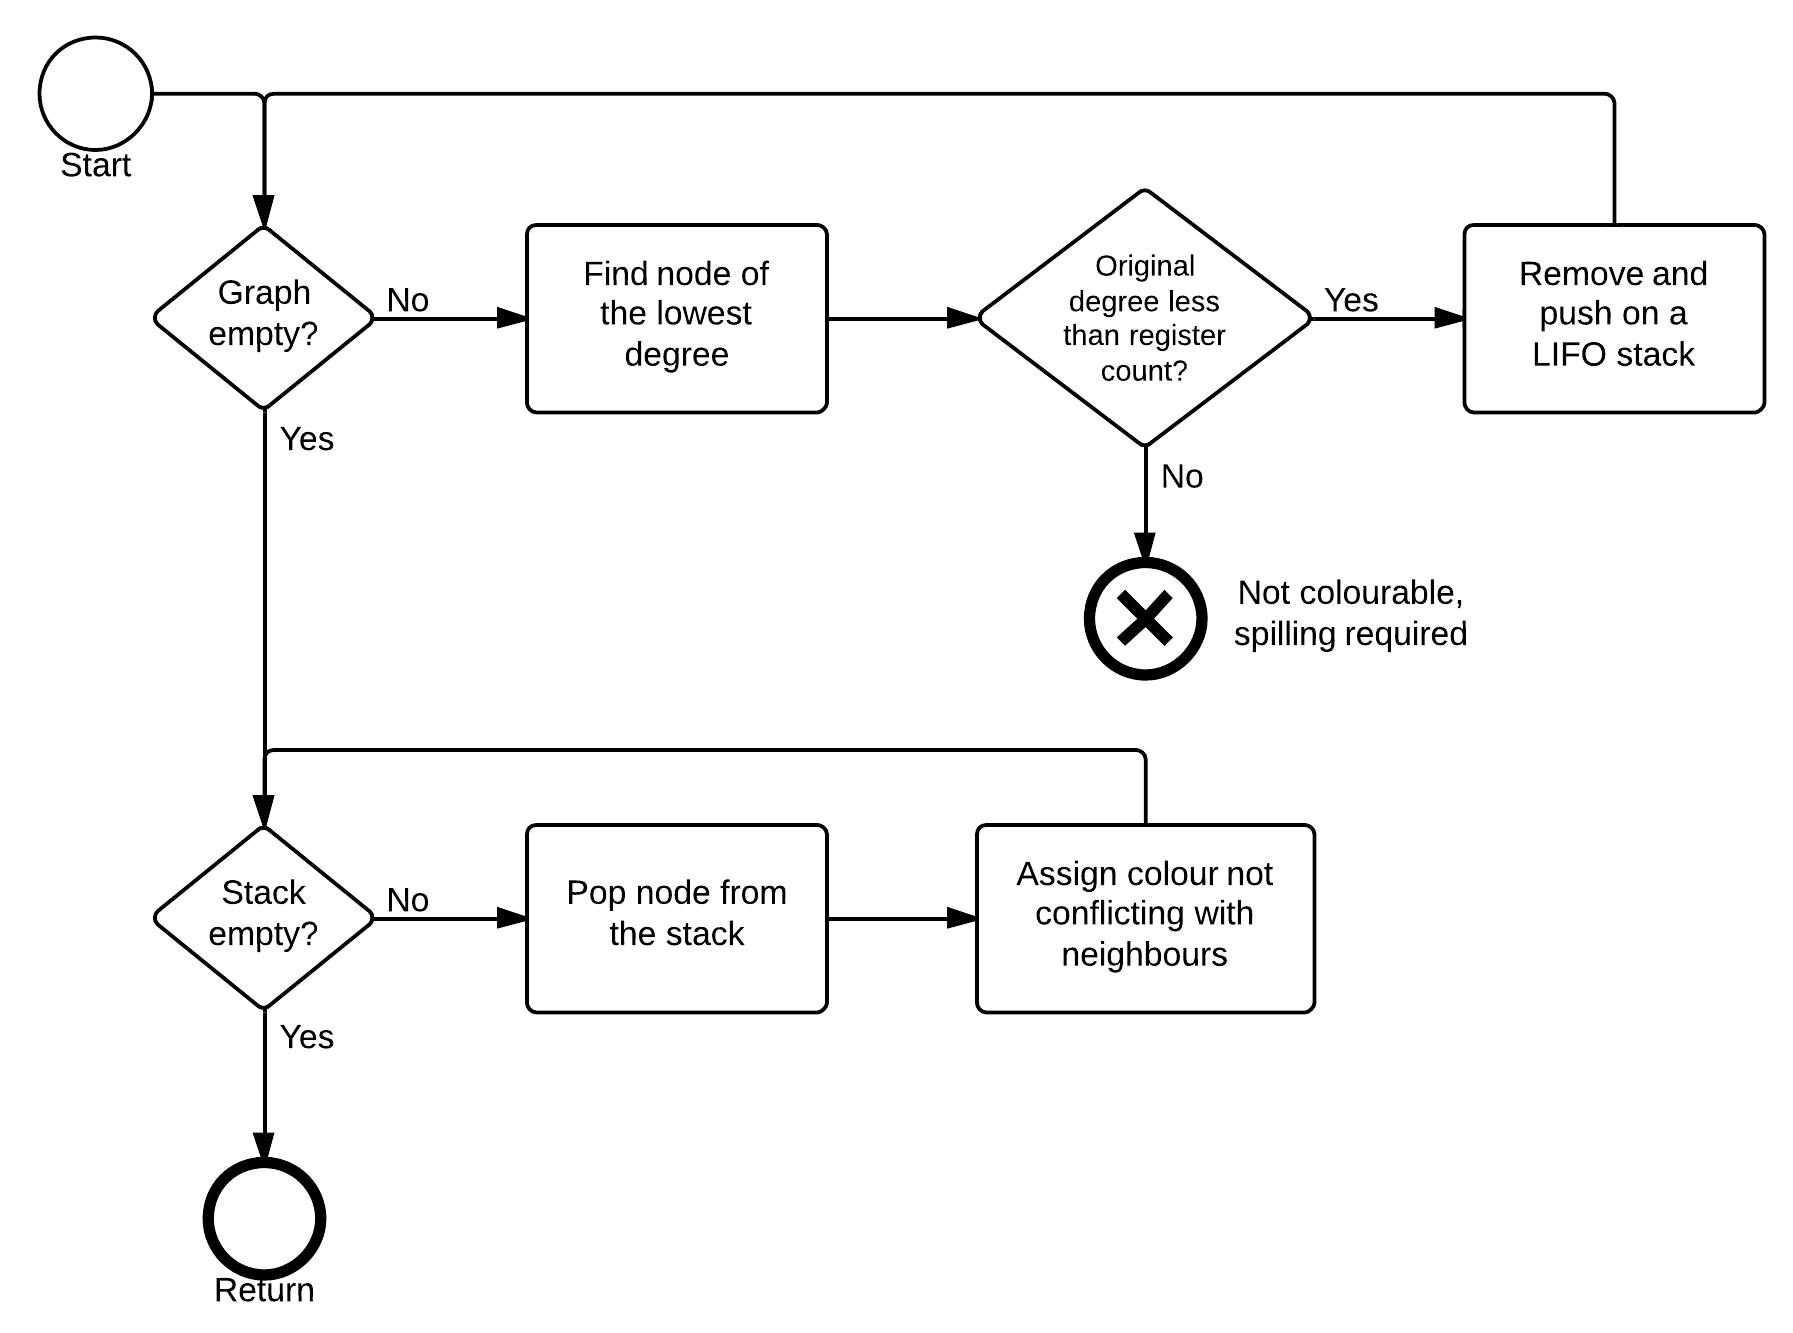
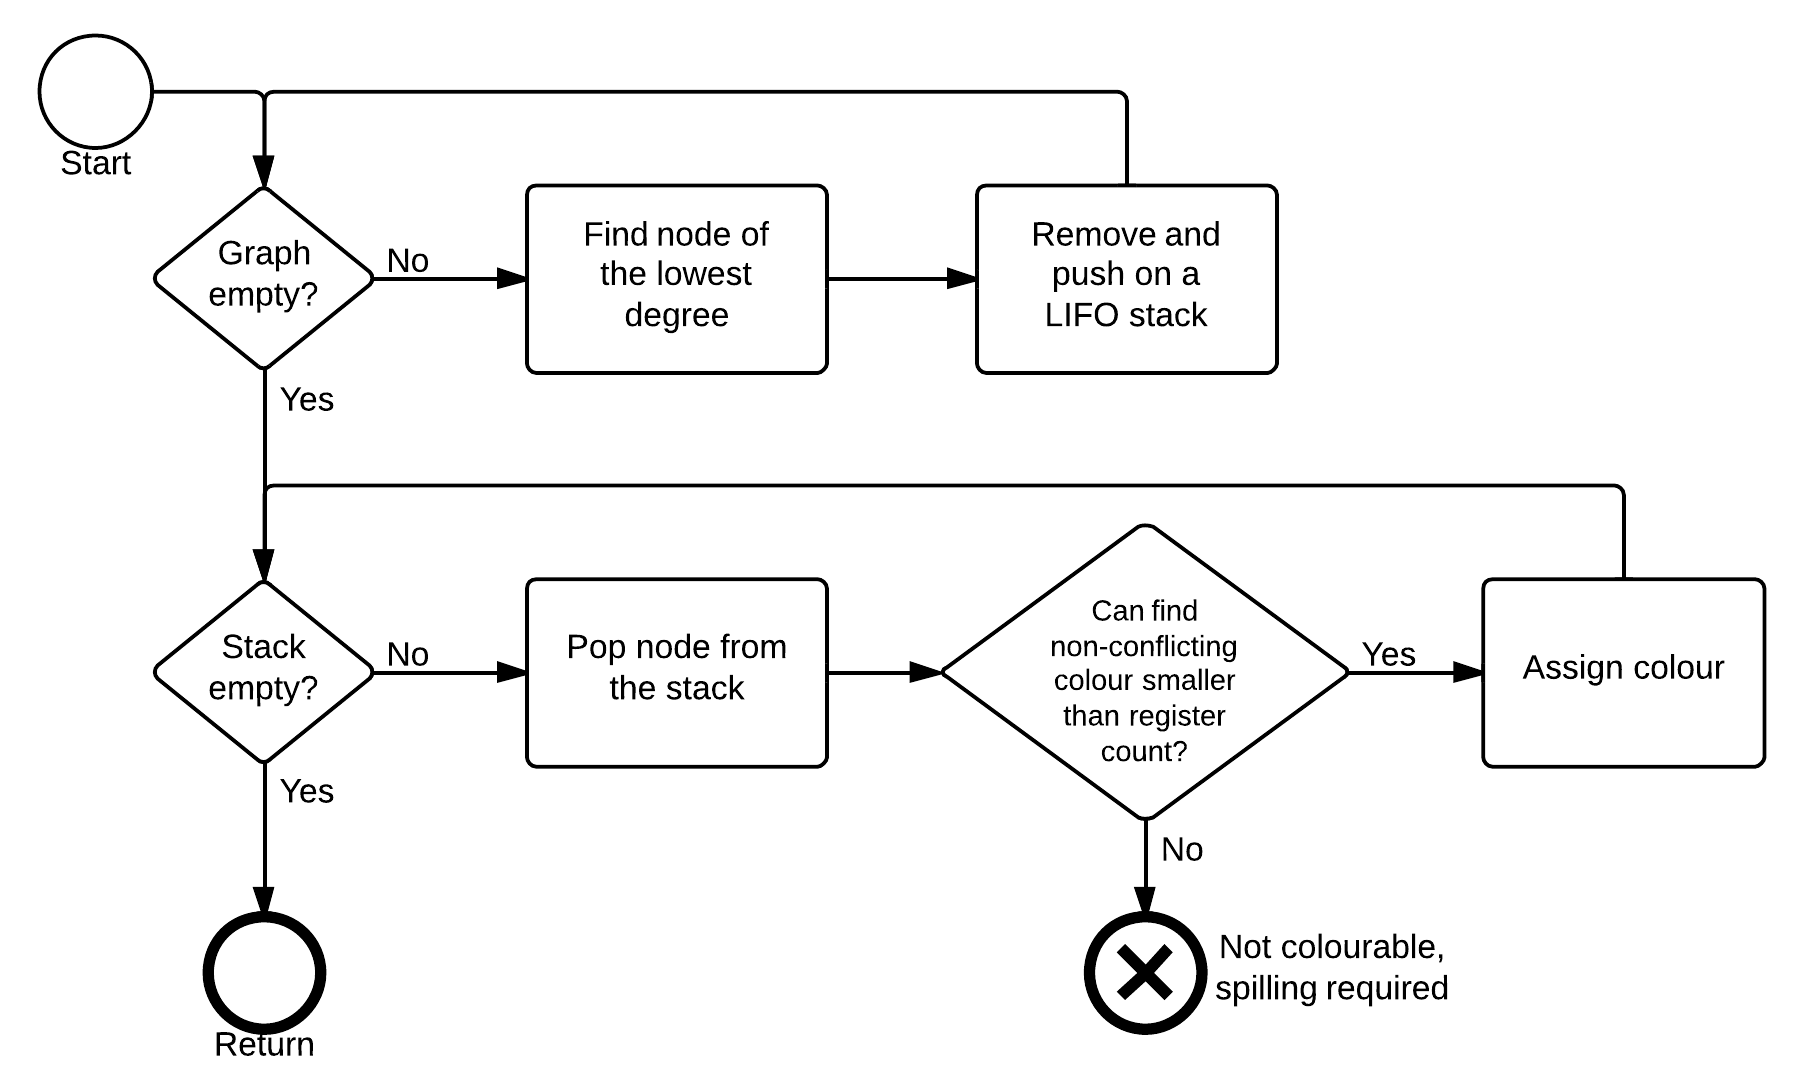
Rewording (ASM - intro + RegAlloc)

diff --git a/diss.tex b/diss.tex
@@ -1025,11 +1025,11 @@ In its current implementation, the hash table is initialized with 1024 slots and
 
 \section{Reassembling}
 
-The algorithms used in parsing and instrumentation are rather elementary and the only difficulty arises from the number of instructions or file structure elements that need to be dealt with individually. This is not the case for the assembling phase, when the intermediate code is converted back to DexLib's data structures. DexLib will automatically generate constant sections of the file and will replace references to their elements by addresses within the file, but it is up to Dexter to generate bytecode that satisfies all the constraints imposed by Dalvik on it. 
+The algorithms used in parsing and instrumentation are rather elementary and the only difficulty arises from the number of instruction types or file structure elements that need to be dealt with individually. This is not the case for the assembling phase, when the intermediate code is converted back to DexLib's data structures. DexLib will automatically generate constant sections of the file and will replace references to their elements by addresses within the file, but it is up to Dexter to generate bytecode that satisfies all the constraints imposed on it by Dalvik. 
 
-The conversion process mostly comes down to allocating register identifiers in such way that each intermediate instruction will be able to generate a valid Dalvik equivalent. Unfortunately, this is a rather complicated task since instrumentation essentially doubles the number of registers used in the computation and the most frequently used Dalvik instructions only allow 4-bit register identifiers and do not have any less optimized variants. Occasionaly, the insertion of extra instructions will also result in instructions performing a jump not being able to address their target because its offset will simply be too large. In these situations, Dexter must be ready to resolve these issues.
+The conversion process mostly comes down to allocating register identifiers in such way that each intermediate instruction will be able to generate a valid Dalvik equivalent. Unfortunately, this is a rather complicated task since instrumentation essentially doubles the number of registers used in the computation and some frequently used Dalvik instructions only allow 4-bit register identifiers and do not have any less optimized variants. Occasionaly, the insertion of extra instructions will also result in instructions performing a jump not being able to address their target because its offset will simply be too large. In these situations, Dexter must be ready to resolve these issues.
 
-Not foreseeing the complexity of this problem unfortunately led to the necessity to build a nearly full-fledged compiler, which in itself is a very challenging task difficult to achieve within the given time frame of the project.  The algorithms used here are mostly taken from the \emph{Modern Compiler Implementation in Java} textbook, and hence their implementation details will be ommited, except their Dalvik-specific modifications. Since the goal of the project was not to build an efficient Dalvik compiler, basic algorithms with simple heuristics were selected, regardless of the performance of the generated code. 
+The complexity of this problem unfortunately led to the necessity to build a nearly full-fledged compiler, which in itself is a very challenging task difficult to achieve within the given time frame of the project.  The algorithms used here are mostly taken from the \emph{Modern Compiler Implementation in Java} textbook, and hence their implementation details will be ommited, except their Dalvik-specific modifications. Since the goal of the project was not to build an efficient Dalvik compiler, basic algorithms with simple heuristics were selected, regardless of the performance of the generated code. 
 
 \subsection{Generic Register Allocation}
 
@@ -1037,11 +1037,11 @@ Register allocation is an optimization problem of assigning a large number of so
 
 \subsubsection{Allocation by Graph Colouring}
 
-Typical compiler reduces register allocation to graph colouring, an NP-complete problem, and solves it using some heuristic, balancing the time complexity of the algorithm with the quality of the generated code. 
+Typical compiler reduces register allocation to an isometric problem of graph colouring, proven to be NP-complete, and solves it using a heuristic that balances time complexity of the algorithm with quality of the generated code. 
 
-The graph in question is called \emph{Clash Graph}. Its nodes represent variables, and two nodes are connected by an edge iff the two respective variables cannot be allocated to the same register. If this graph can be coloured with number of colours less than or equal to the number of available CPU registers, a solution to the isomorphic register allocation has been found and can be easily generated, otherwise some registers need to be spilled. 
+The graph in question is called a \emph{Clash Graph}. Its nodes represent variables, and two nodes are connected by an edge iff the two respective variables cannot be allocated to the same register. If this graph can be coloured with a number of colours less than or equal to the number of available CPU registers, a solution has been found. Otherwise, some registers need to be spilled.
 
-A commonly used greedy graph-colouring algorithm, which Dexter adopts with slight modifications that will be explained later, uses a simple heuristic to choose a sensible order in which nodes should be coloured. How it works is described by the flow chart in figure~\ref{fig:Implementation_GraphColouring}. Even though it runs in linear time, it usually yields satisfactory results. The algorithm fails if the number of used colours exceeds the number of available registers, in which case a set of variables to be spilled must be selected. An algorithm for this selection is not presented as Dexter simply chooses a random variable and runs the algorithm again. Compilers use more sophisticated analyses to select an optimal set of variables to spill, usually ones that are least used, and do not require the coulouring algorithm to run multiple times.
+A commonly used greedy graph-colouring algorithm, which Dexter adopts with slight modifications explained later on, uses a simple heuristic to choose a sensible order in which nodes should be coloured. How it works is described by the flow chart in figure~\ref{fig:Implementation_GraphColouring}. Even though it runs in linear time, it usually yields satisfactory results. The algorithm fails if the number of used colours exceeds the number of available registers, in which case a set of variables to be spilled must be selected. An algorithm for this selection is not presented as Dexter simply chooses a random variable and runs the algorithm again. Compilers use more sophisticated analyses to select an optimal set of variables to spill, usually ones that are least used, and do not require the coulouring algorithm to run multiple times.
 
 \begin{figure}
 	\centerline{	
